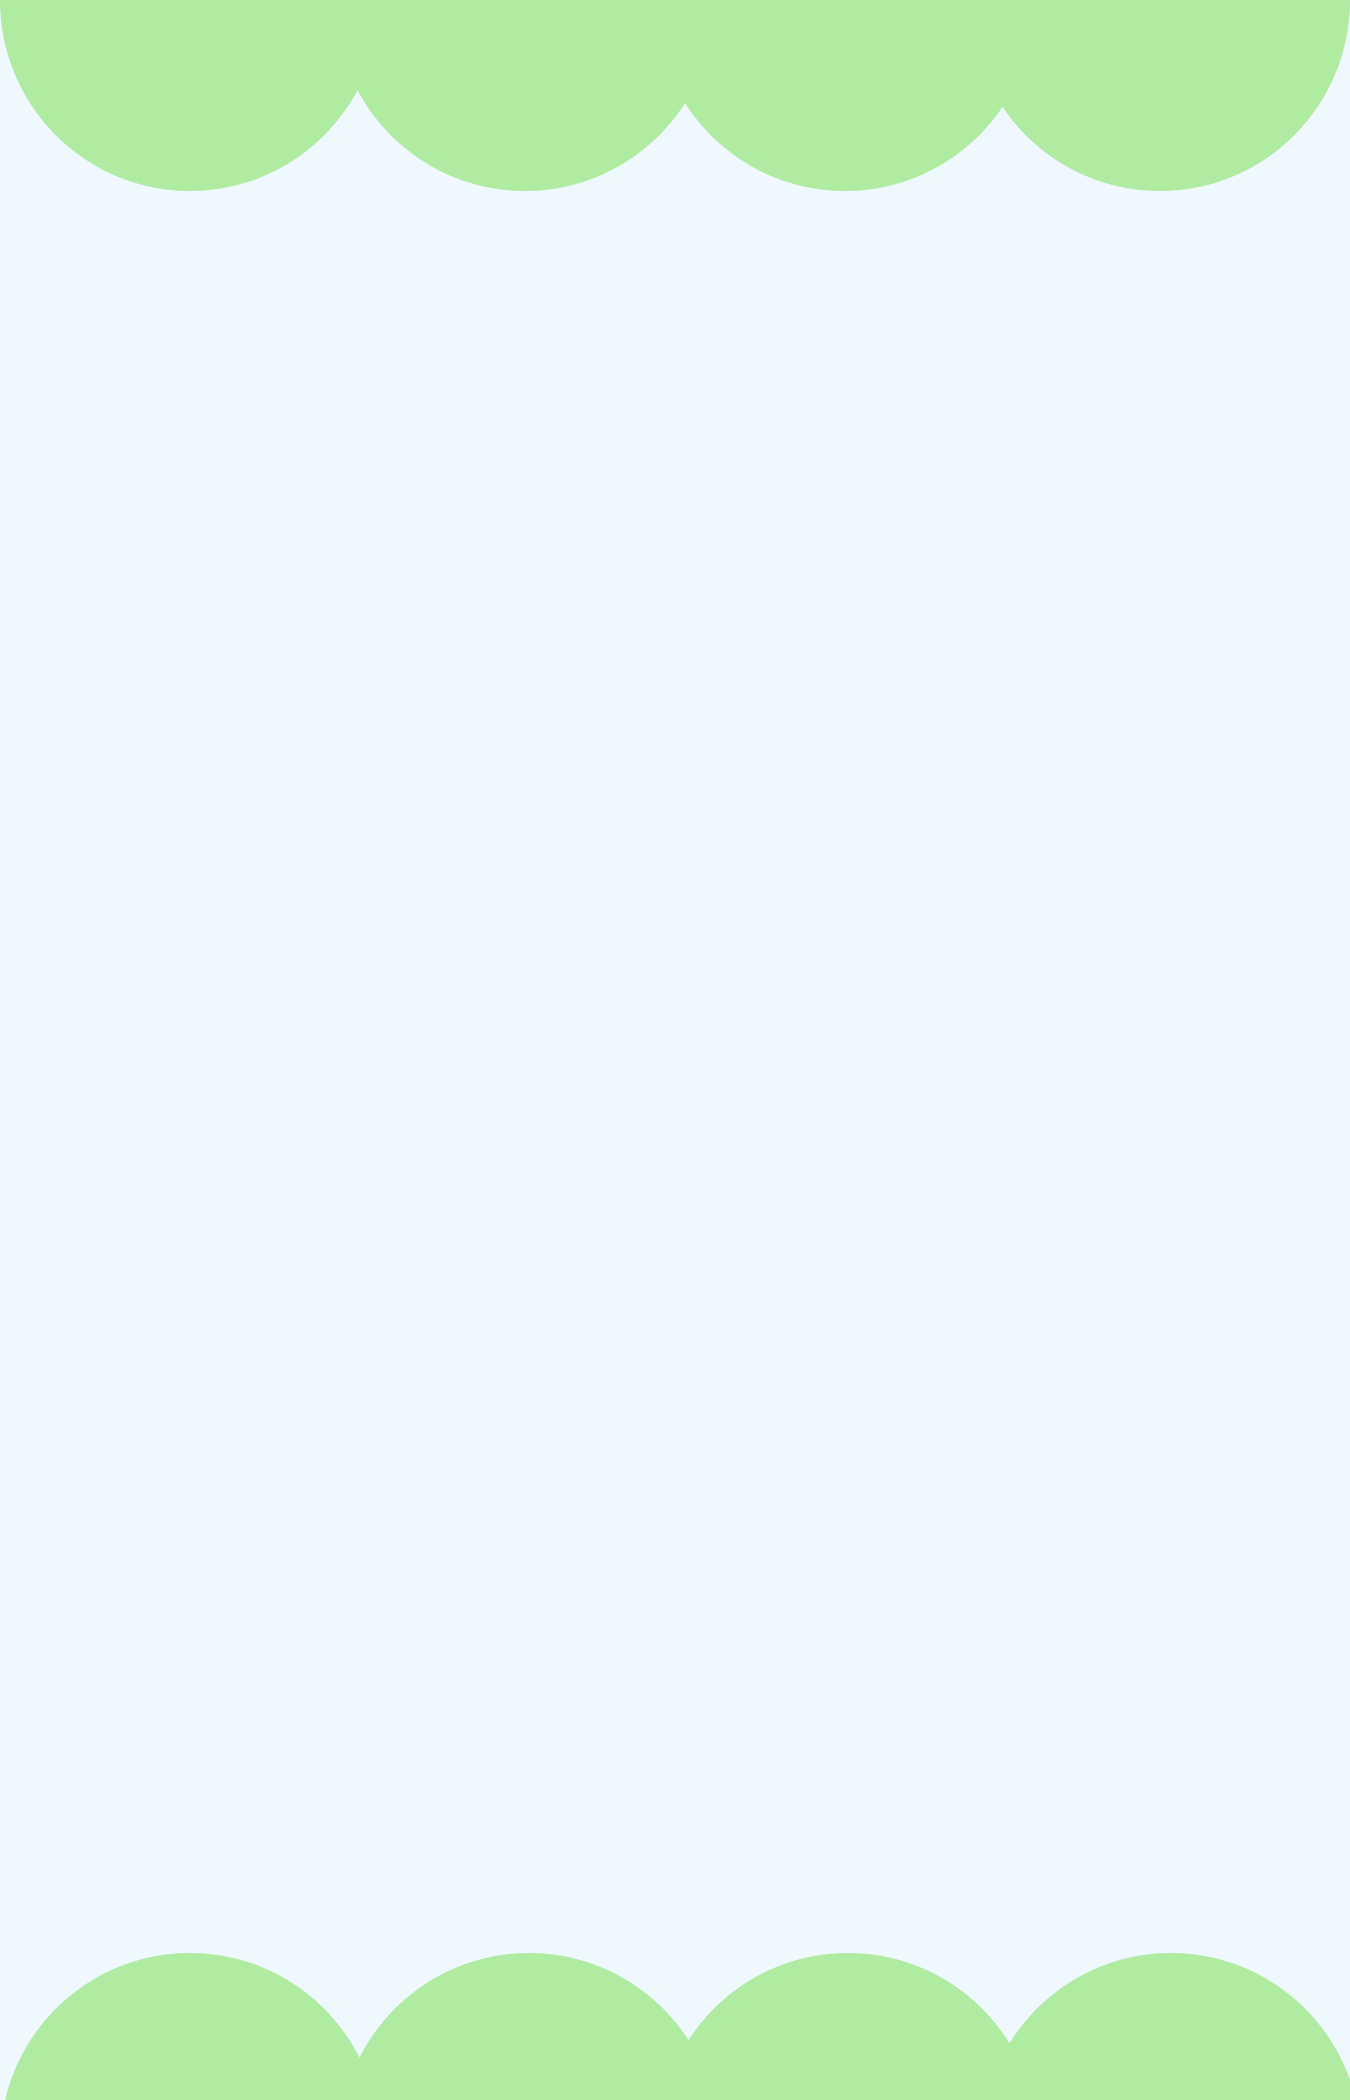
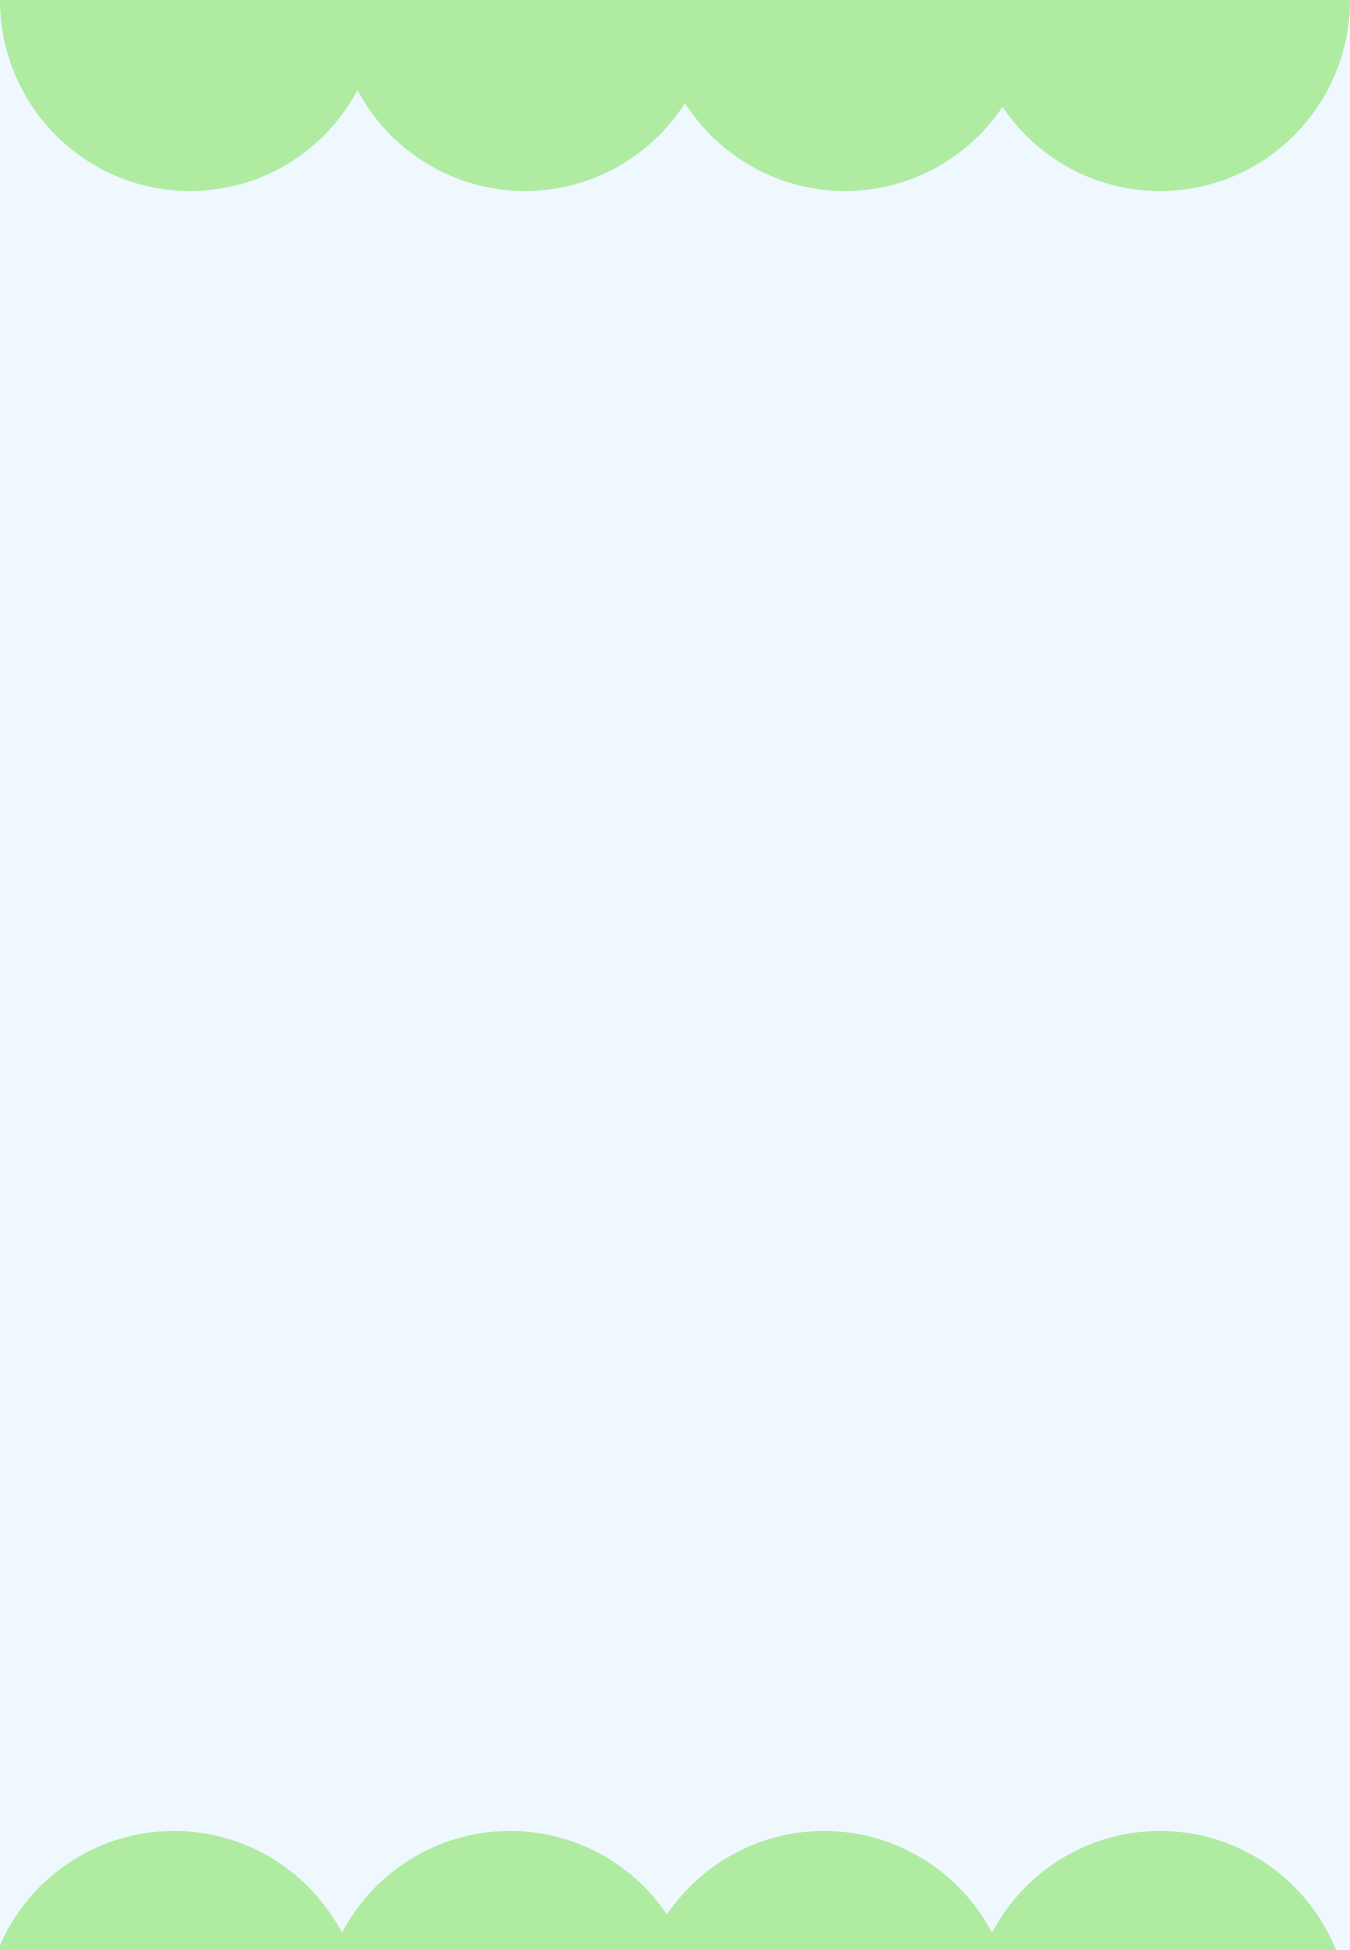
minor changes

diff --git a/src/pages/Gotoprice.css b/src/pages/Gotoprice.css
@@ -2,7 +2,7 @@
   background-image: url(../assets/images/gotoprice.png);  
   background-color: #F0F8FF;
   width: 100%;
-  height: 2120px;
+  height: 1950px;
   margin-top: 0px;
 }
 
@@ -51,9 +51,9 @@
     width: 100%;
     height: 1400px;
     /* margin-left: 280px; */
-    margin-top: 180px;
+    margin-top: 150px;
      
-    
+     
     
 }
 .box1{
@@ -137,7 +137,7 @@
     width: 60%;
     height: 350px;
     background-color: #F0F8FF;
-    margin-top: 70px;
+    margin-top: 50px;
     margin-left: 450px;
     border-radius: 10px;
     border: 4px solid #004b23;
@@ -155,7 +155,7 @@
     width: 60%;
     height: 350px;
     background-color: #F0F8FF;
-    margin-top: 70px;
+    margin-top: 50px;
     margin-left: 90px;
     border-radius: 10px;
     border: 4px solid #004b23;
@@ -173,7 +173,7 @@
     width: 60%;
     height: 350px;
     background-color: #F0F8FF;
-    margin-top: 70px;
+    margin-top: 50px;
     margin-left: 450px;
     border-radius: 10px;
     border: 4px solid #004b23;

diff --git a/src/pages/AboutUs.jsx b/src/pages/AboutUs.jsx
@@ -45,7 +45,7 @@ const AboutUs = () => {
             </div>
           </div>
         </div>
-
+        
         <div className="team-member">
           <div className="team-card" style={{ backgroundImage: 'url(https://images.unsplash.com/photo-1513956589380-bad6acb9b9d4?ixlib=rb-4.0.3&ixid=MnwxMjA3fDB8MHxwaG90by1yZWxhdGVkfDV8fHxlbnwwfHx8fA%3D%3D&auto=format&fit=crop&w=800&q=60)' }}>
             <div className="team-info">

diff --git a/src/scooterPricelist/Scotypriceone.css b/src/scooterPricelist/Scotypriceone.css
@@ -3,7 +3,7 @@
     width: 100%;
     height: 420px;
     /* margin-top: 1px; */
-    background-image: url(../assets/Background-images/background6.jpg);
+    background-image: url(../assets/Background-images/background4.jpg);
     padding: 20px;
     text-align: center;
 }

diff --git a/src/scooterPricelist/Scotypricetwo.css b/src/scooterPricelist/Scotypricetwo.css
@@ -4,7 +4,7 @@
     width: 100%;
     height: 570px;
     /* margin-top: 1px; */
-    background-image: url(../assets/Background-images/background6.jpg);
+    background-image: url(../assets/Background-images/background4.jpg);
     padding: 20px;
     text-align: center;
 }

diff --git a/src/scooterPricelist/Scotypricefive.css b/src/scooterPricelist/Scotypricefive.css
@@ -4,7 +4,7 @@
     width: 100%;
     height: 470px;
     margin-top: 1px;
-    background-image: url(../assets/Background-images/background6.jpg);
+    background-image: url(../assets/Background-images/background4.jpg);
     padding: 20px;
     text-align: center;
 }

diff --git a/src/scooterPricelist/Scotypricefour.css b/src/scooterPricelist/Scotypricefour.css
@@ -4,7 +4,7 @@
     width: 100%;
     height: 430px;
     margin-top: 1px;
-    background-image: url(../assets/Background-images/background6.jpg);
+    background-image: url(../assets/Background-images/background4.jpg);
     padding: 20px;
     text-align: center;
 }

diff --git a/src/scooterPricelist/Scotypricesix.css b/src/scooterPricelist/Scotypricesix.css
@@ -4,7 +4,7 @@
     width: 100%;
     height: 520px;
     margin-top: 1px;
-    background-image: url(../assets/Background-images/background6.jpg);
+    background-image: url(../assets/Background-images/background4.jpg);
     padding: 20px;
     text-align: center;
 }

diff --git a/src/scooterPricelist/Scotypricethree.css b/src/scooterPricelist/Scotypricethree.css
@@ -4,7 +4,7 @@
     width: 100%;
     height: 570px;
     margin-top: 1px;
-    background-image: url(../assets/Background-images/background6.jpg);
+    background-image: url(../assets/Background-images/background4.jpg);
     padding: 20px;
     text-align: center;
 }

diff --git a/src/vansPricelist/Vanspricethree.css b/src/vansPricelist/Vanspricethree.css
@@ -1,7 +1,7 @@
 .threevan {
   width: 100%;
   height: 400px;
-  background-image: url('../assets/Background-images/background6.jpg');
+  background-image: url('../assets/Background-images/background4.jpg');
   padding: 20px;
   margin-top: 1px;
   text-align: center;

diff --git a/src/vansPricelist/Vanspricefour.css b/src/vansPricelist/Vanspricefour.css
@@ -1,7 +1,7 @@
 .fourvan {
   width: 100%;
   height: 380px;
-  background-image: url('../assets/Background-images/background6.jpg');
+  background-image: url('../assets/Background-images/background4.jpg');
   padding: 20px;
   text-align: center;
   margin-top: 1px;

diff --git a/src/vansPricelist/Vanspricesix.css b/src/vansPricelist/Vanspricesix.css
@@ -1,7 +1,7 @@
 .sixvan {
   width: 100%;
   height: 380px;
-  background-image: url('../assets/Background-images/background6.jpg');
+  background-image: url('../assets/Background-images/background4.jpg');
   padding: 20px;
   text-align: center;
   margin-top: 1px;

diff --git a/src/vansPricelist/Vanspricetwo.css b/src/vansPricelist/Vanspricetwo.css
@@ -1,7 +1,7 @@
 .twovan {
   width: 100%;
   height: 350px;
-  background-image: url('../assets/Background-images/background6.jpg');
+  background-image: url('../assets/Background-images/background4.jpg');
   padding: 20px;
   text-align: center;
   margin-top: 1px;
